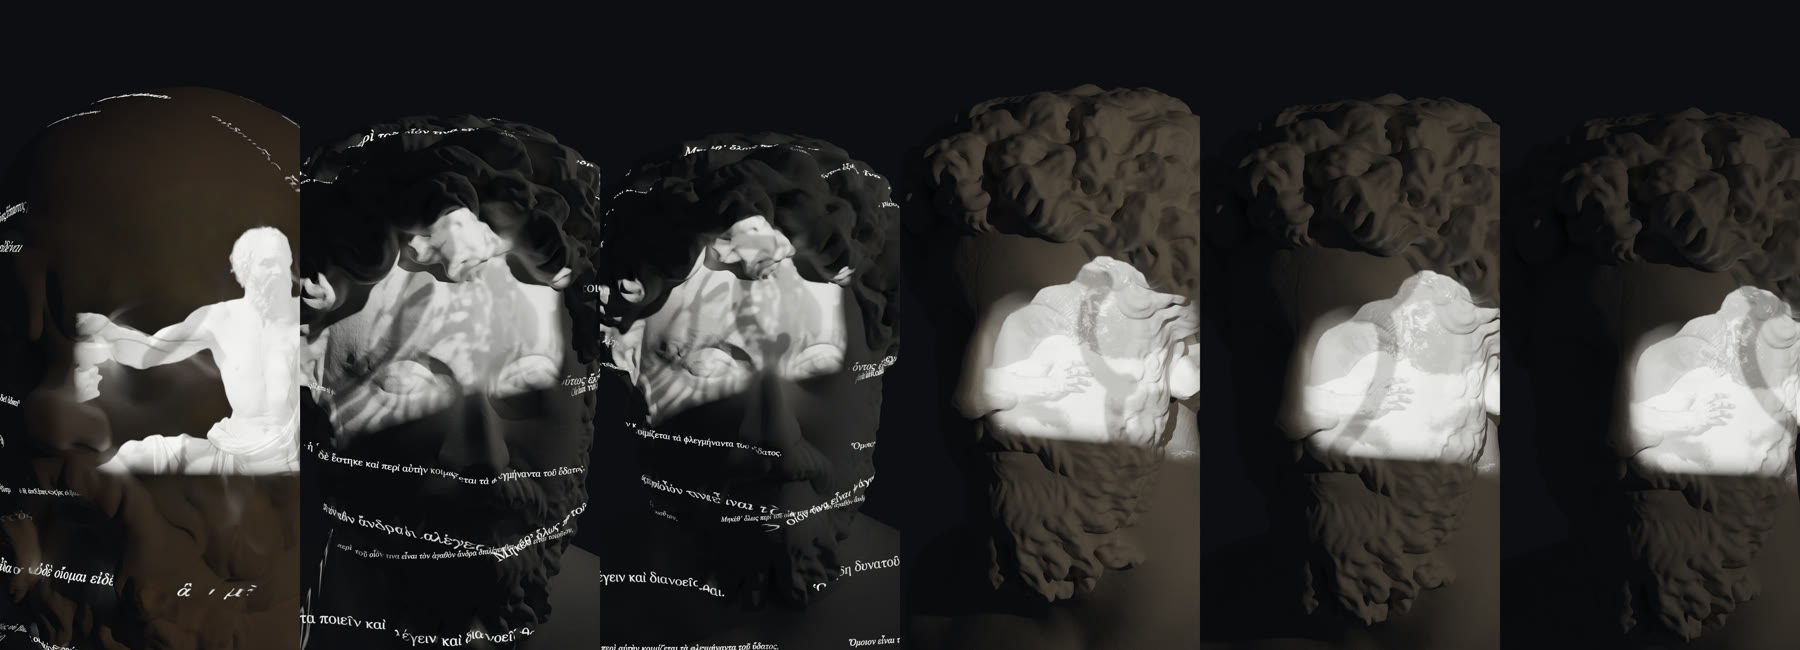
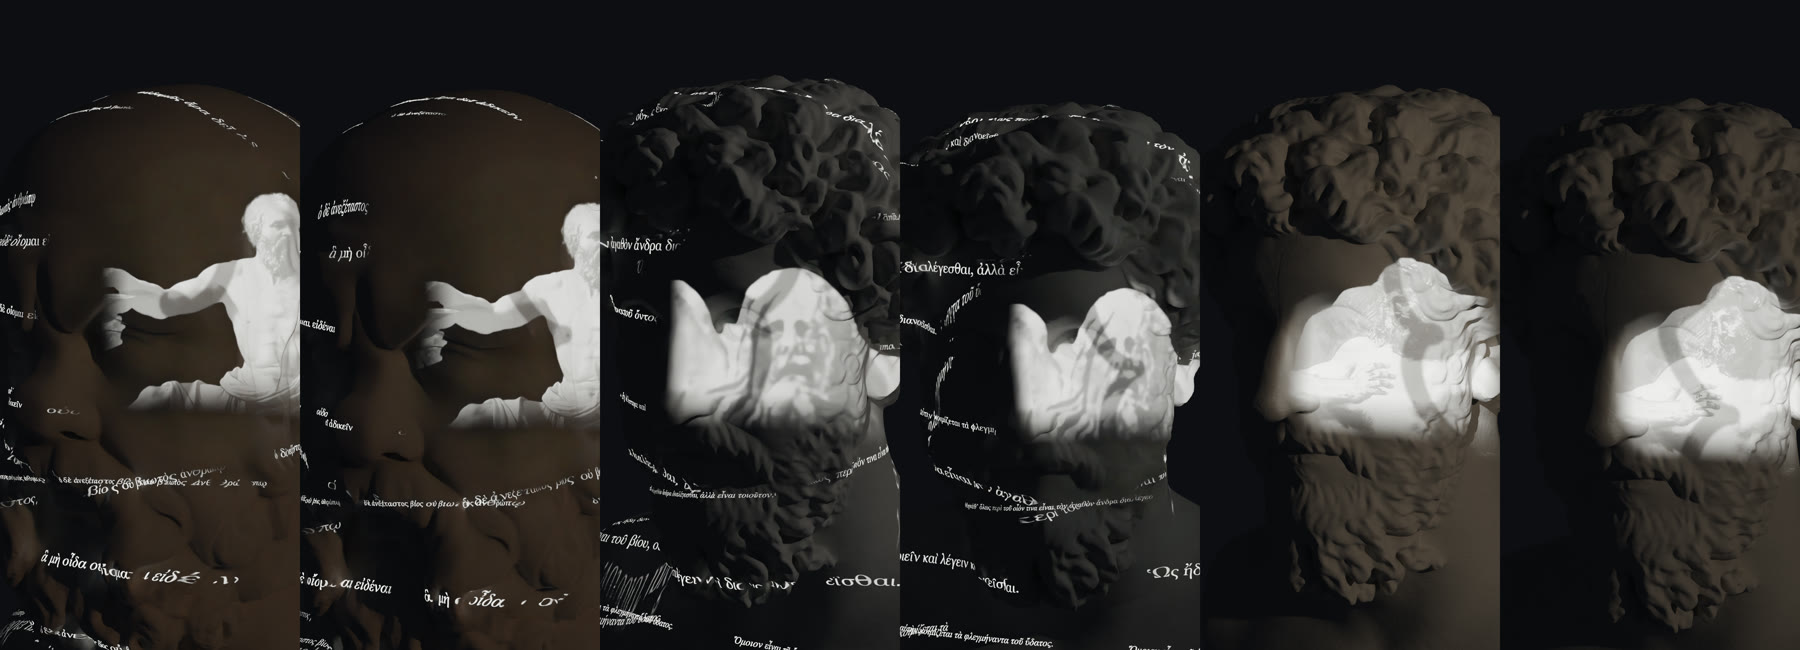
Linnanrakentaja: kaiut pehmeäreunaisiksi — reunahäivytys 14 % (alareuna 25 %, käyrä ^2,2); David pois nenän varjosta ja voima 30 (ei ylivalotusta); sade poskelle 3/4-kameralla (otsalla hukkui kiharoihin); luvut v14

diff --git a/tools/linssit/blender/sokrates_bysti.py b/tools/linssit/blender/sokrates_bysti.py
@@ -1335,8 +1335,9 @@ def v13_kierrokset(sc, cam, tahtain, cd, avain, ao, aur, p, n, gobot, tausta):
     if not SAVUKOE: kaiku('kaiku-sotilas', 'kaiku-sotilas.png', p, n, SIVU * 0.55 + YLOS * 0.25, 0.10, k_('02', 0), k_('03', 0) + 0.8, 26.0)
     kaiku('kaiku-oraakkeli', 'kaiku-oraakkeli.png', sp, sn, (SIVU * 0.55 + YLOS * 0.30) if V13C else (SIVU * 0.15 + YLOS * 0.12), 0.08 if V13C else 0.07, k_('04', 0) + 0.3, k_('05', 0) - 0.2, 12.0 if V13C else 32.0)   # v13c: rajattu punakuvio on lähes kokonaan vaaleaa
     illan_t = T(W.get('Illan', K['10'][0])); rivi_t = T(W.get('riviäkään', K['10'][0] + 6.8))
-    kaiku('kaiku-david', 'kaiku-kuolema.png', vp, vn, Vector((0.0, -0.55, 0.30)), 0.136 if V14 else 0.11,   # v14: yksinkertainen rajattu (4.10.), sama pinta-ala
-          illan_t, rivi_t + 0.3, 70.0, haiv=24)
+    kaiku('kaiku-david', 'kaiku-kuolema.png', (vp + Vector((0.015, 0.0, 0.02))) if V14 else vp, vn,   # v14: ylemmäs ja projektorin puolelle → malja ei osu nenän varjoon (kova pystyviiva)
+          Vector((0.0, -0.55, 0.30)), 0.125 if V14 else 0.11,   # v14: yksinkertainen rajattu (4.10.)
+          illan_t, rivi_t + 0.3, 30.0 if V14 else 70.0, haiv=24)   # v14: 70 ylivalotti hahmon valkoiseksi ja teki häivytyksestä kovan reunan
     # --- lainaukset nauhoina (vierivät tasaisella nopeudella, näkyvät lainauksen ajan) ---
     lainaukset = []
     def lainaus(nimi, kuva, q, suunta, ala, kork, kap, raja=None):
@@ -1489,7 +1490,8 @@ def v13_marcus(sc, cam, tahtain, cd, avain, ao, aur, p, n, gobot, tausta):
                          liuku=0.02, haivytys=haiv, varjo=0.0, savy=(1.0, 1.0, 1.0) if KAIKUVARI == 'neutraali' else (1.0, 0.78, 0.52))
         kaiut.append({'nimi': nimi, 'kuva': kuva, 'alku_s': round(a_t, 2), 'loppu_s': round(l_t, 2)})
     sade_t = w_('taivas', k_('04', 0) + 3.5); uhri_t = w_('uhrasi', k_('06', 0)); sair_t = w_('sairastui', k_('08', 0) + 1.5)
-    kaiku('kaiku-sade', 'kaiku-sade.png', p, n, SIVU * 0.55 + YLOS * 0.25, 0.121 if V14 else 0.10,   # v14: yksinkertainen (pää + parta), sama pinta-ala
+    kaiku('kaiku-sade', 'kaiku-sade.png', vp if V14 else p, vn if V14 else n,   # v14: poskelle (otsalla jumalan kasvot hukkuivat kiharoihin)
+          Vector((0.0, -0.55, 0.30)) if V14 else SIVU * 0.55 + YLOS * 0.25, 0.121 if V14 else 0.10,   # v14: yksinkertainen (pää + parta), sama pinta-ala
           sade_t, k_('05', 0) - 0.3, 26.0)
     kaiku('kaiku-uhri', 'kaiku-uhri.png', sp, sn, SIVU * 0.55 + YLOS * 0.30, 0.08, uhri_t, k_('07', 0) - 0.3, 22.0)
     kaiku('kaiku-kuolinvuode', 'kaiku-kuolinvuode.png', vp, vn, Vector((0.0, -0.55, 0.30)), 0.102 if V14 else 0.11,   # v14: pää + ylävartalo
@@ -1562,7 +1564,7 @@ def v13_marcus(sc, cam, tahtain, cd, avain, ao, aur, p, n, gobot, tausta):
         (k_('02', 0), kc((0.0, -0.07, 0.41), (-0.02, -1.0, 0.10), 0.80 if V14 else 0.52), (0.0, -0.07, 0.41), 50, 'BEZIER'),   # v14: 10.16 kokonaan kuvaan, edestä
         (k_('03', 0) - 0.04, kc((0.0, -0.07, 0.40), (-0.15, -1.0, 0.08), 0.78 if V14 else 0.52), (0.0, -0.07, 0.40), 50, 'CONSTANT'),
         (k_('03', 0), (-0.14, -0.55, 0.10), (0.0, -0.08, 0.36), 35, 'BEZIER'),                     # leikkaus: alaviisto, kova
-        (sade_t, kc((0.0, -0.08, 0.41), (-0.12, -1.0, 0.10), 0.58), (0.0, -0.08, 0.41), 50, 'BEZIER'),   # sadeihme otsalla
+        (sade_t, kc((0.03, -0.07, 0.38), (0.75, -1.0, 0.10), 0.66) if V14 else kc((0.0, -0.08, 0.41), (-0.12, -1.0, 0.10), 0.58), (0.03, -0.07, 0.38) if V14 else (0.0, -0.08, 0.41), 50, 'BEZIER'),   # sadeihme otsalla
         (a5 + 0.5, kc((0.0, -0.07, 0.41), (-0.02, -1.0, 0.10), 0.80) if V14 else kc(pp, (-0.45, -1.0, 0.10), 0.34), (0.0, -0.07, 0.40) if V14 else tuple(pp), 50, 'BEZIER'),                     # poski (4.49)
         *([(uhri_t - 0.04, kc((0.0, -0.07, 0.41), (-0.02, -1.0, 0.10), 0.80), (0.0, -0.07, 0.40), 50, 'CONSTANT')] if V14 else []),   # v14: 4.49 pysyy ruudussa → leikkaus uhriin
         (uhri_t, kc(sp, (0.35, -1.0, 0.05), 0.42), tuple(sp), 50, 'BEZIER'),                        # silmäkuoppa (uhri)

diff --git a/tools/linssit/blender/sokrates_kaiku.py b/tools/linssit/blender/sokrates_kaiku.py
@@ -19,13 +19,13 @@ if tapa == 'rajattu':
     # projektorissa musta = ei valoa: alfa kerrotaan sävyyn (maski), ja hahmon sisäsävyt nostetaan välille 0,27–1,0,
     # jotta tummakin hahmo (hopliittipronssi) piirtyy valona eikä katoa varjoon
     im = im.point(lambda v: int(70 + 185 * s_(v / 255))).filter(ImageFilter.UnsharpMask(1.5, 80, 2))
-    # 4.10.: rajausreunat (hahmo leikattu kuvan reunaan) häivytetään 12 %:n matkalla — muuten suora reuna piirtyy kasvoille
-    w_, h_ = alfa.size; r_ = max(2, int(0.12 * min(w_, h_)))
-    ramppi = Image.linear_gradient('L').point(lambda v: int(255 * (v / 255) ** 1.5))   # 0 yläreunassa → 255
+    # 4.10.: rajausreunat (hahmo leikattu kuvan reunaan) häivytetään 14 %:n matkalla (käyrä ^2,2: ylivalottuva projektori ei tee liu'usta reunaa) — muuten suora reuna piirtyy kasvoille
+    w_, h_ = alfa.size; r_ = max(2, int(0.14 * min(w_, h_)))
+    ramppi = Image.linear_gradient('L').point(lambda v: int(255 * (v / 255) ** 2.2))   # 0 yläreunassa → 255
     for nimi_, laatikko in (('yla', (0, 0, w_, 1)), ('ala', (0, h_ - 1, w_, h_)), ('vasen', (0, 0, 1, h_)), ('oikea', (w_ - 1, 0, w_, h_))):
         reuna = alfa.crop(laatikko).point(lambda v: 255 if v > 128 else 0)
         if sum(reuna.tobytes()) / 255 < 0.02 * max(reuna.size): continue
-        k_ = Image.new('L', (w_, h_), 255)
+        k_ = Image.new('L', (w_, h_), 255); r_ = max(2, int((0.25 if nimi_ == 'ala' else 0.14) * min(w_, h_)))   # alareuna: hahmo jatkuu yleensä kirkkaana leikkaukseen asti
         if nimi_ == 'yla': k_.paste(ramppi.resize((w_, r_)), (0, 0))
         elif nimi_ == 'ala': k_.paste(ramppi.resize((w_, r_)).transpose(Image.FLIP_TOP_BOTTOM), (0, h_ - r_))
         elif nimi_ == 'vasen': k_.paste(ramppi.transpose(Image.ROTATE_90).resize((r_, h_)), (0, 0))   # ROTATE_90: tumma vasemmalla
